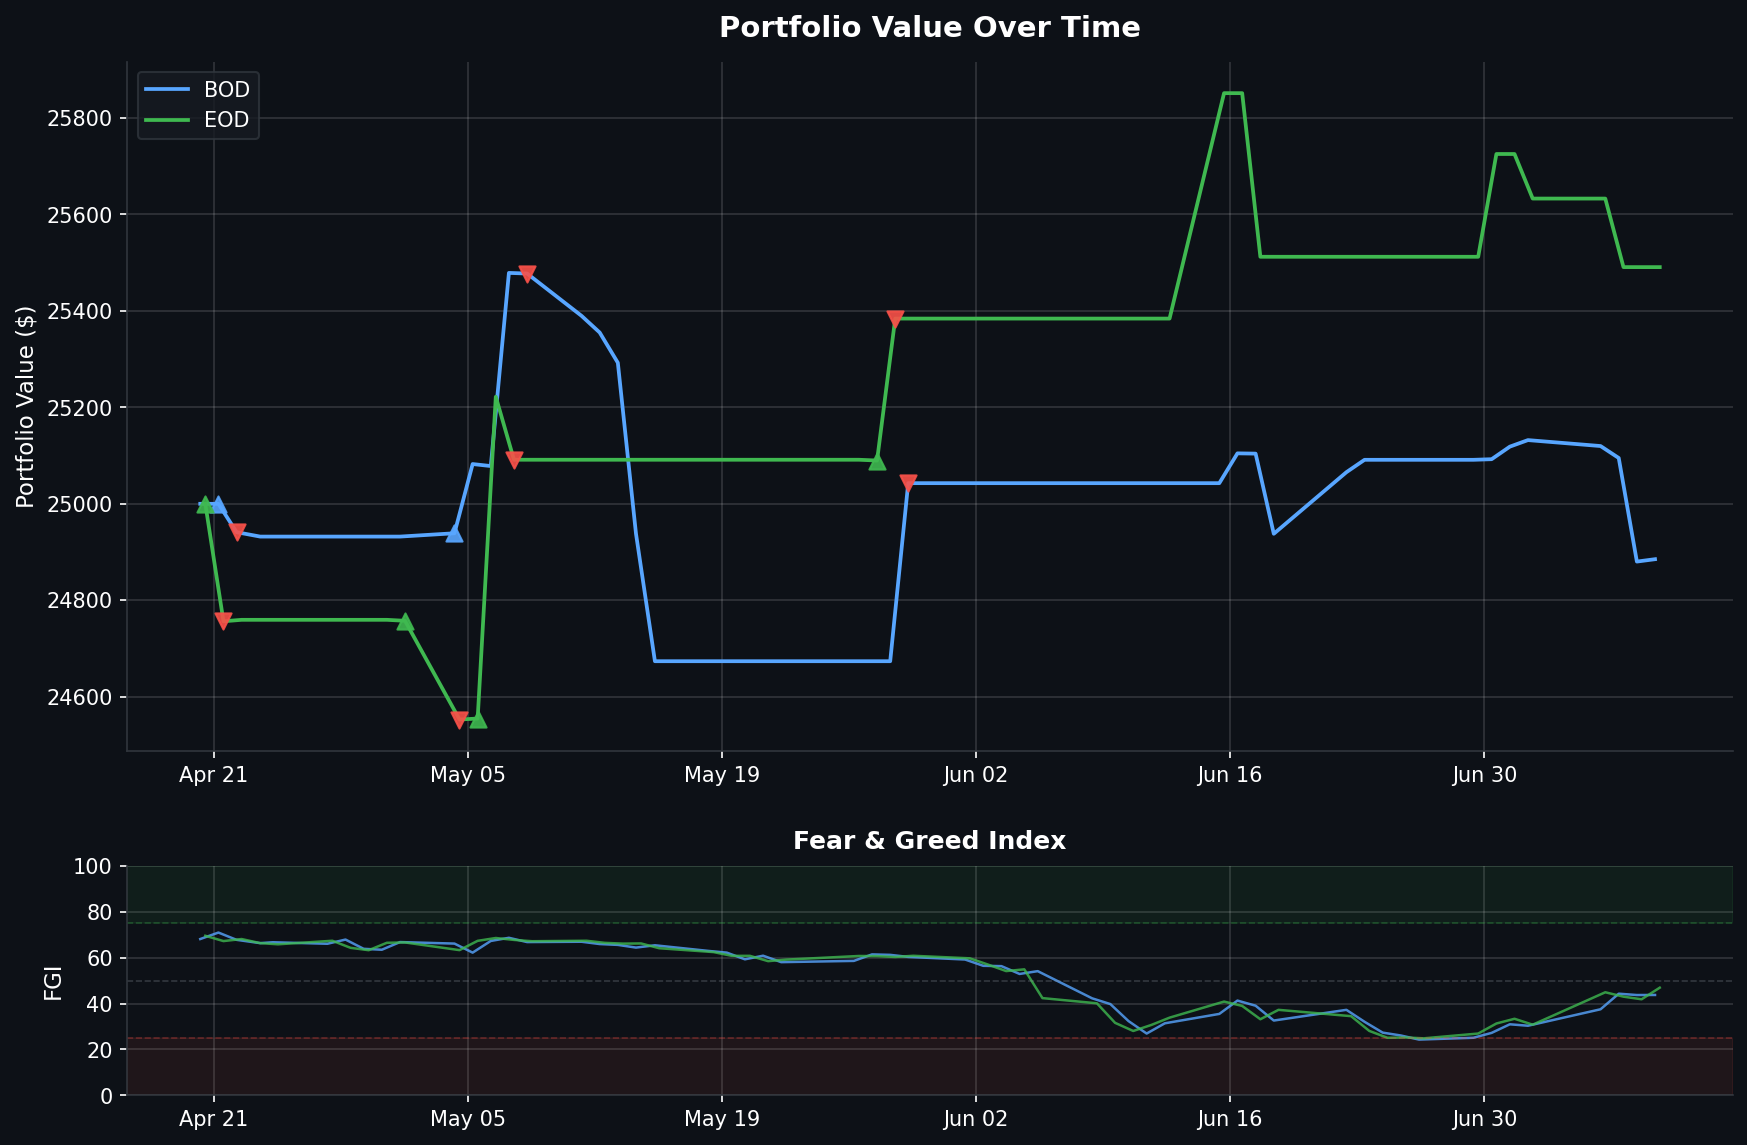
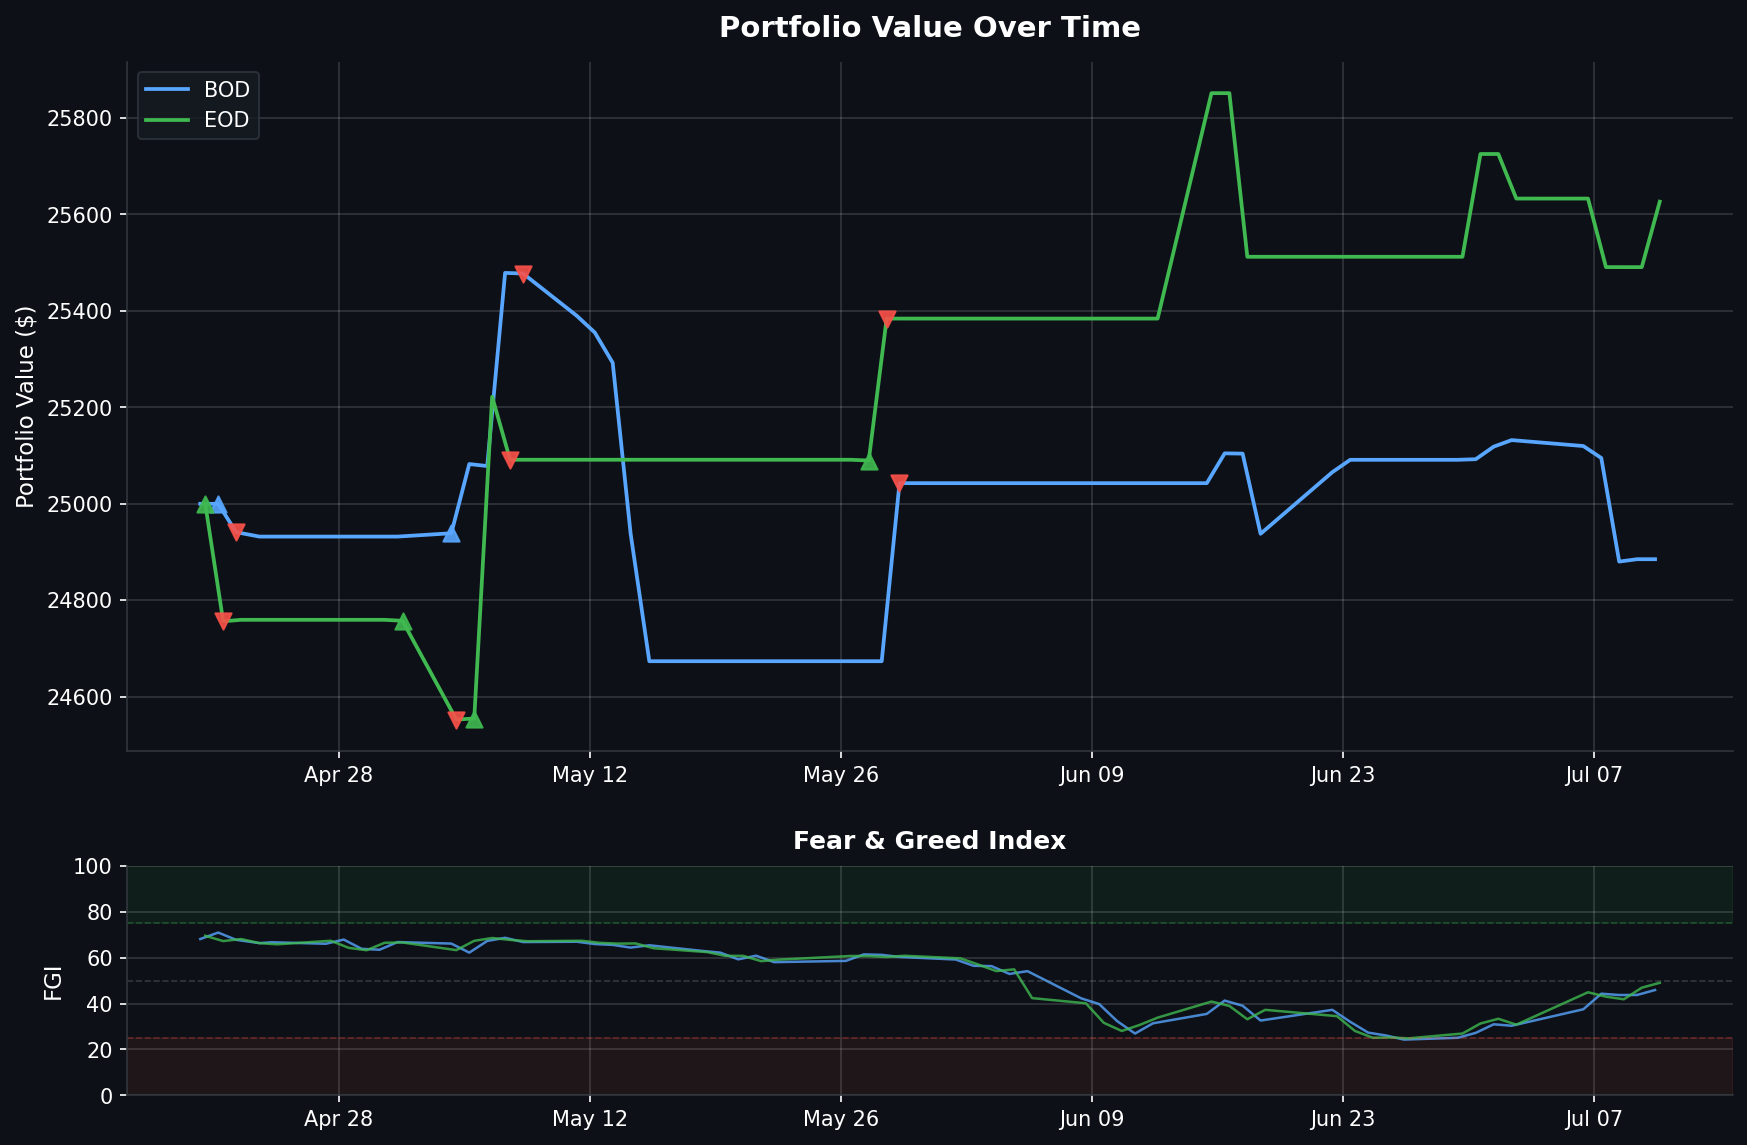
Daily data backup 2026-07-10

diff --git a/README.md b/README.md
@@ -1,6 +1,6 @@
 # Fear & Greed Index Trading Bot
 
-> Dashboard auto-updated daily at market close | Last update: **2026-07-09 13:30 PST**
+> Dashboard auto-updated daily at market close | Last update: **2026-07-10 13:30 PST**
 
 ![Portfolio Performance](assets/portfolio_chart.png)
 
@@ -12,12 +12,12 @@
 |--------|-------|
 | Portfolio Value | **$24,885.15** |
 | Buying Power | $99,540.60 |
-| Current FGI | 43.74 |
+| Current FGI | 45.89 |
 | Position | FLAT |
 | Total P&L | **$+995** |
 | Win Rate | 50% (1W / 1L) |
 | Total Round Trips | 2 |
-| Last Signal | NO_ACTION @ 2026-07-09 09:35 |
+| Last Signal | NO_ACTION @ 2026-07-10 09:35 |
 
 <details>
 <summary>Trade History (2 trades)</summary>
@@ -34,11 +34,11 @@
 
 | Time | Action | Price | FGI | Momentum | Velocity | Volatility | Reason |
 |------|--------|-------|-----|----------|----------|------------|--------|
+| 07-10 09:35 | NO_ACTION | $752.62 | 45.89 | 1.44 | 0.53 | 0.55 | BUY did not fill after 3 attempts |
 | 07-09 09:35 | NO_ACTION | $747.70 | 43.74 | -0.17 | 2.08 | 0.55 | Insufficient momentum/velocity for entry |
 | 07-08 09:35 | NO_ACTION | $743.50 | 43.71 | 1.87 | 4.46 | 0.55 | SELL incomplete - still holding 33 after 5 attempts |
 | 07-07 09:37 | NO_ACTION | $750.05 | 44.29 | 6.91 | 4.44 | 0.55 | BUY did not fill after 3 attempts |
 | 07-06 09:35 | NO_ACTION | $749.00 | 37.51 | 4.57 | 3.43 | 0.55 | SELL incomplete - still holding 44 after 5 attempts |
-| 07-02 09:36 | NO_ACTION | $748.77 | 30.34 | 0.83 | 1.74 | 0.55 | BUY did not fill after 3 attempts |
 
 </details>
 
@@ -48,14 +48,14 @@
 
 | Metric | Value |
 |--------|-------|
-| Portfolio Value | **$25,490.79** |
-| Buying Power | $101,963.16 |
-| Current FGI | 46.91 |
+| Portfolio Value | **$25,626.51** |
+| Buying Power | $102,506.04 |
+| Current FGI | 49.03 |
 | Position | FLAT |
 | Total P&L | **$+302** |
 | Win Rate | 50% (2W / 2L) |
 | Total Round Trips | 4 |
-| Last Signal | NO_ACTION @ 2026-07-09 15:50 |
+| Last Signal | NO_ACTION @ 2026-07-10 15:52 |
 
 <details>
 <summary>Trade History (4 trades)</summary>
@@ -74,11 +74,11 @@
 
 | Time | Action | Price | FGI | Momentum | Velocity | Volatility | Reason |
 |------|--------|-------|-----|----------|----------|------------|--------|
+| 07-10 15:52 | NO_ACTION | $755.33 | 49.03 | 3.10 | 2.01 | 0.55 | SELL incomplete - still holding 33 after 5 attempts |
 | 07-09 15:50 | NO_ACTION | $751.15 | 46.91 | 2.99 | 0.67 | 0.55 | BUY did not fill after 3 attempts |
 | 07-08 15:50 | NO_ACTION | $744.75 | 41.86 | -1.40 | 3.69 | 0.55 | Insufficient momentum/velocity for entry |
 | 07-07 15:52 | NO_ACTION | $747.28 | 43.0 | 3.43 | 3.21 | 0.55 | SELL incomplete - still holding 33 after 5 attempts |
 | 07-06 15:50 | NO_ACTION | $751.47 | 44.91 | 8.55 | 4.53 | 0.55 | BUY did not fill after 3 attempts |
-| 07-02 15:52 | NO_ACTION | $743.83 | 30.8 | -1.03 | 1.29 | 0.55 | SELL incomplete - still holding 34 after 5 attempts |
 
 </details>
 
